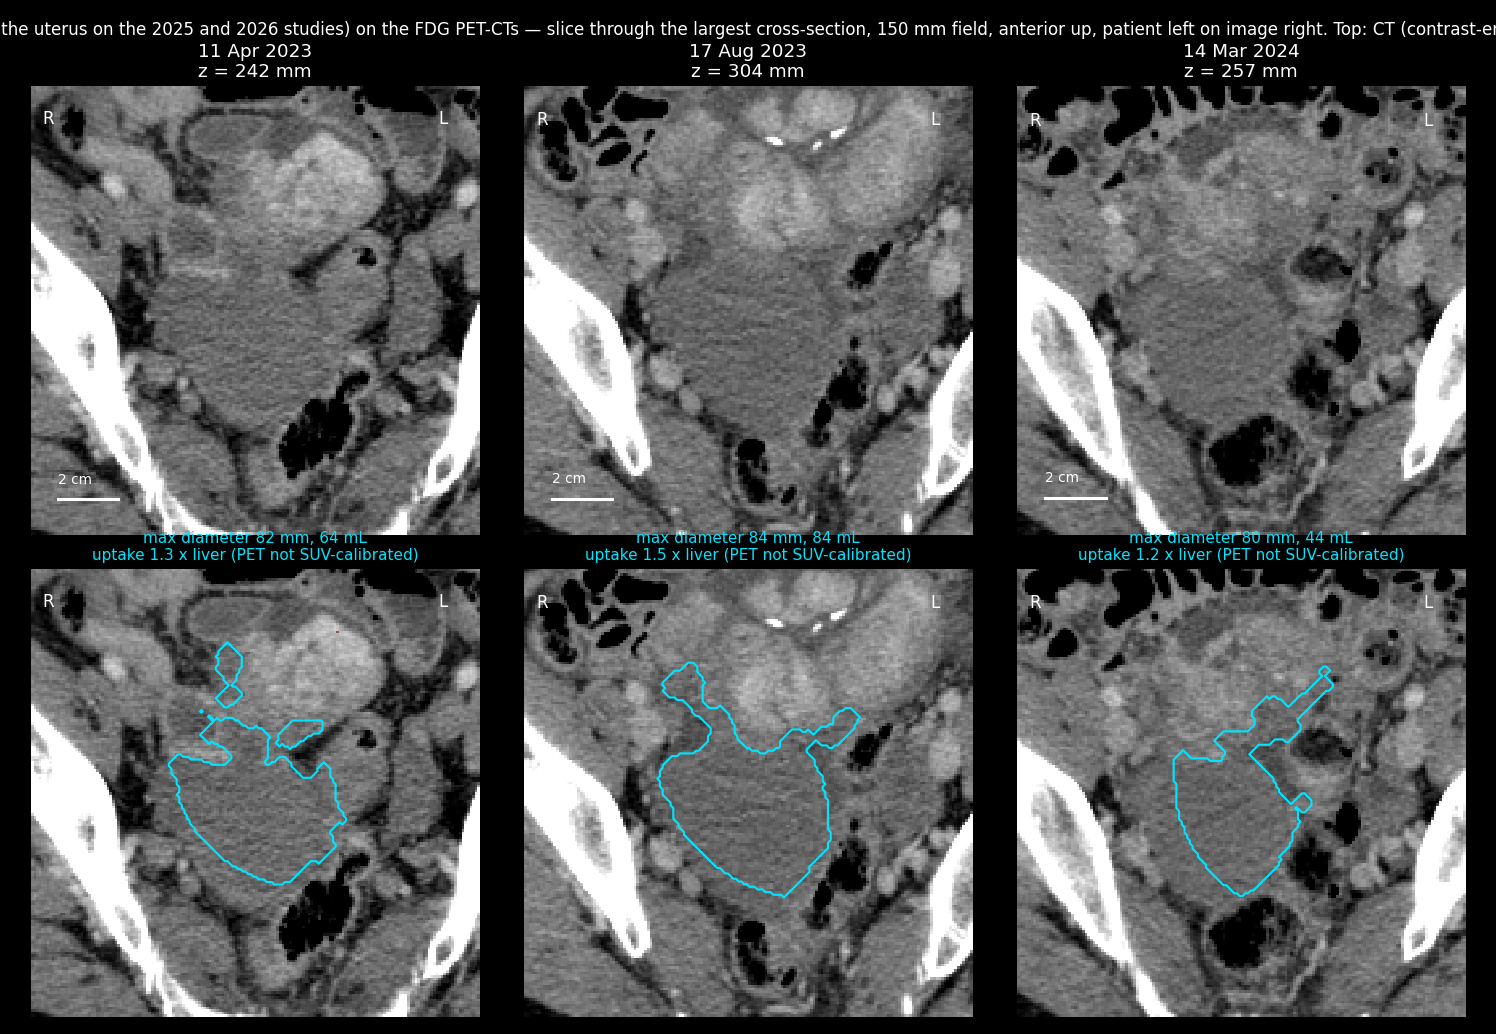
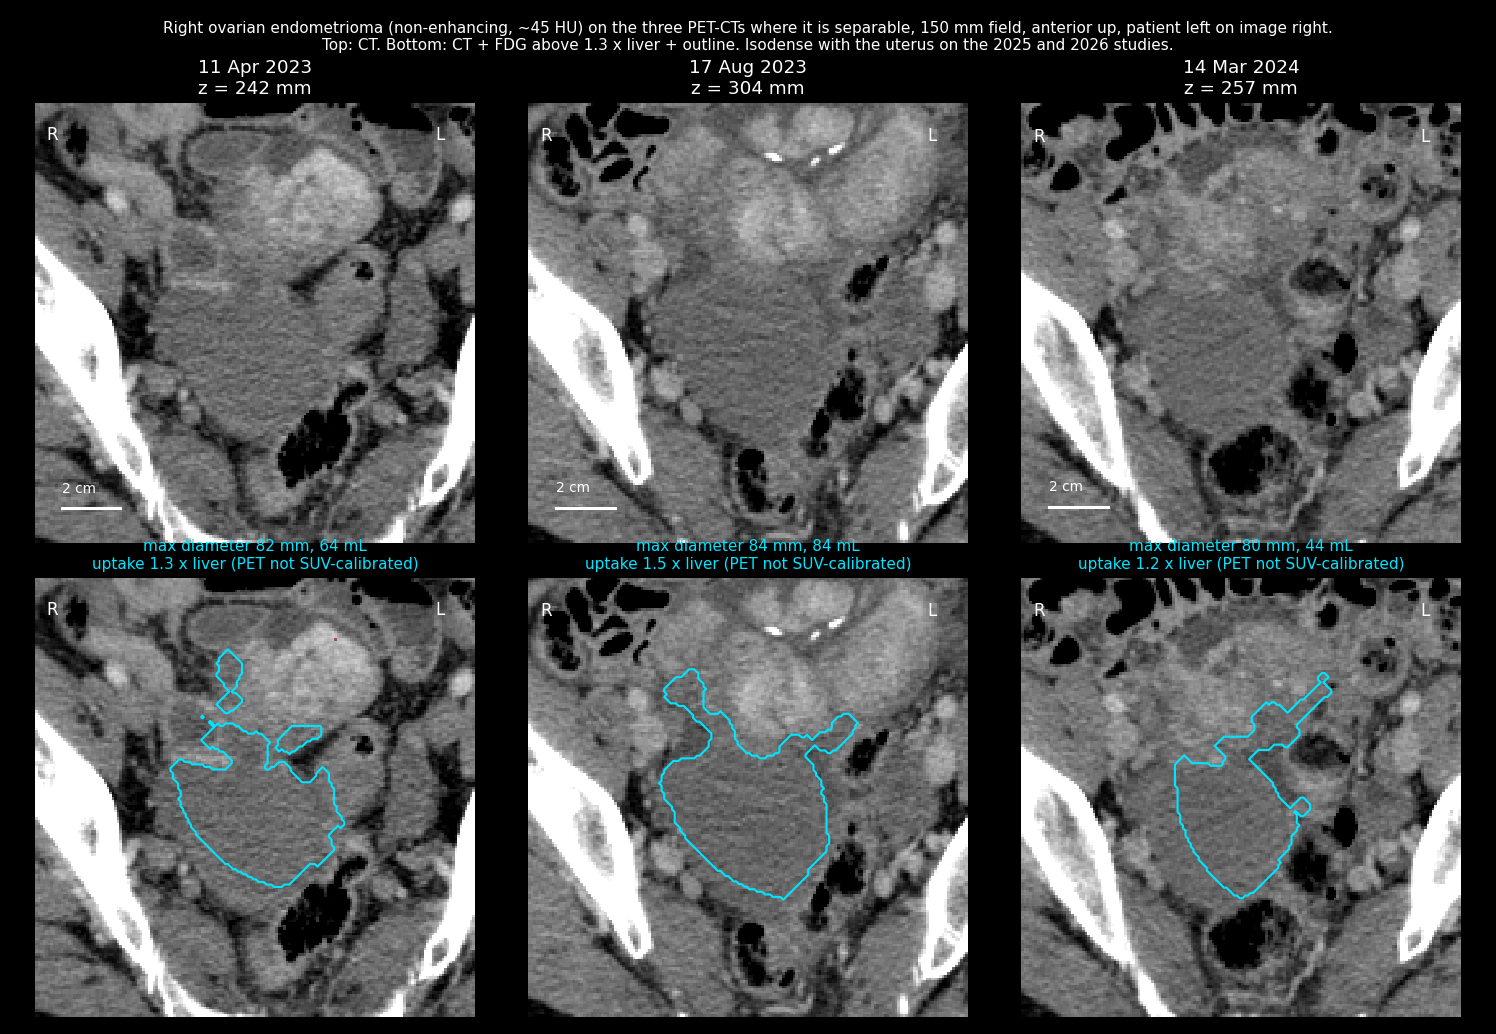
Endometrioma panel title fixed

Changed region(s): [[0.0, 0.0, 0.984, 0.9903], [0.9532, 0.0, 1.0, 0.0309]]

diff --git a/index.html b/index.html
@@ -164,7 +164,7 @@ footer{color:var(--muted);font-size:13px;padding:30px 24px;text-align:center}
 <h4 id="endometrioma">Right ovarian endometrioma (haemorrhagic cyst of the right ovary; "endometrioma" per the 2023 Israeli MRI/CT revision)</h4>
 <p>A <b>homogeneous, non-enhancing (about 45 HU), smoothly outlined mass</b> in the projection of the right ovary / pouch of Douglas, present since the first CT of August 2022 (<b>67 × 57 mm</b>). It was separated from the uterus trace as the low-density component inside it (below 55–62 HU after smoothing); on the 2025 and 2026 studies the whole lower uterus is of similar density and no distinct component could be isolated, in line with the 2026 report ("ovaries not clearly differentiated").</p>
 <div class="tablewrap"><table><tr><th>PET-CT</th><th>Max in-plane diameter, mm</th><th>Volume, mL</th><th>Mean density, HU</th><th>Max FDG uptake / liver</th><th>Reported by the radiologists</th></tr><tr><td><b>11 Apr 2023</b></td><td>82</td><td>64</td><td>45</td><td>1.3 ×<span class="meta"> (PET not SUV-calibrated)</span></td><td>about <b>6 cm</b> (Israeli revision 19.04.2023: ~6 cm, ~50 HU, no enhancement); CT 09.02.2023: <b>75 × 45 mm</b>, +45 HU</td></tr><tr><td><b>17 Aug 2023</b></td><td>84</td><td>84</td><td>39</td><td>1.5 ×<span class="meta"> (PET not SUV-calibrated)</span></td><td>CT 28.06.2023: <b>65 × 42 mm</b>, +45 HU, clear even contours</td></tr><tr><td><b>14 Mar 2024</b></td><td>80</td><td>44</td><td>43</td><td>1.2 ×<span class="meta"> (PET not SUV-calibrated)</span></td><td>Israeli revision 25.03.2024: caudal formation <b>4.8 × 5.1 cm</b> (from 5 × 5.5)</td></tr><tr><td><b>13 May 2025</b></td><td colspan="4" class="meta">not separable from the uterus on this study: no distinct non-enhancing right-adnexal component (the whole lower uterus is of similar density)</td><td>not described separately ("ovaries not clearly differentiated" in 2026)</td></tr><tr><td><b>19 Jun 2026</b></td><td colspan="4" class="meta">not separable from the uterus on this study: no distinct non-enhancing right-adnexal component (the whole lower uterus is of similar density)</td><td>not described separately; pelvic MRI recommended</td></tr></table></div>
-<figure><img src="img/ovary_dynamics.png?v=d04d7be7" alt="Right ovarian endometrioma on the PET-CTs"><figcaption>Figure 13. Right ovarian endometrioma through its largest cross-section on the three studies where it is separable (15 cm field). Top: CT. Bottom: CT with FDG uptake above 1.3 × liver background and the outline (cyan). Uptake stays at liver-background level; on the 2025 and 2026 studies it is isodense with the uterus.</figcaption></figure>
+<figure><img src="img/ovary_dynamics.png?v=dab9075d" alt="Right ovarian endometrioma on the PET-CTs"><figcaption>Figure 13. Right ovarian endometrioma through its largest cross-section on the three studies where it is separable (15 cm field). Top: CT. Bottom: CT with FDG uptake above 1.3 × liver background and the outline (cyan). Uptake stays at liver-background level; on the 2025 and 2026 studies it is isodense with the uterus.</figcaption></figure>
 <figure><img src="img/ovary_3d_dynamics_ghost.png?v=b2548893" alt="Endometrioma with ghost organs"><figcaption>Figure 14. 3D reconstruction of the endometrioma (teal) with ghost bladder, pelvic bones and colon; bar = 5 cm. Its 3D shape is also in the interactive viewer above (third button).</figcaption></figure>
 <div class="card"><b>Interactive 3D: the three pelvic/abdominal masses on the five dates</b> — each date's traced mass is placed side by side at a common scale, with ghost organs; switch between the gastric, uterine and ovarian series. <a href="viewer_masses.html" target="_blank">Open full screen</a>.
 <div style="resize:vertical;overflow:hidden;height:420px;min-height:260px;border:1px solid #2a2f45;border-radius:8px;background:#050508"><iframe src="viewer_masses.html" style="width:100%;height:100%;border:0;display:block" loading="lazy" title="Masses over time 3D"></iframe></div></div>
